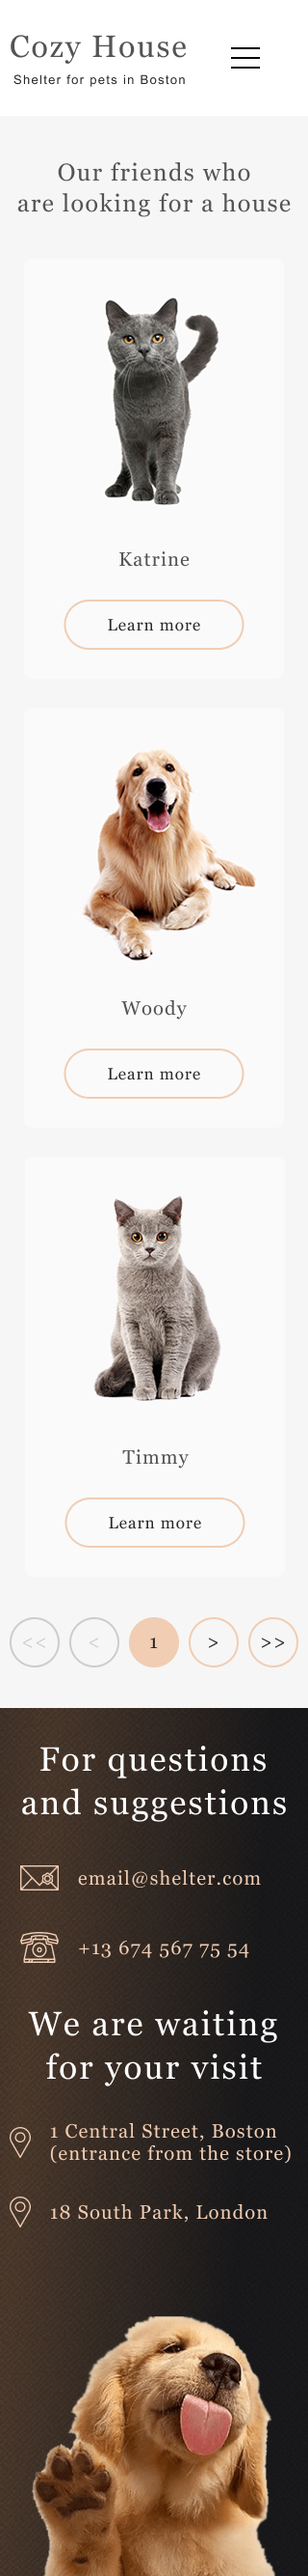
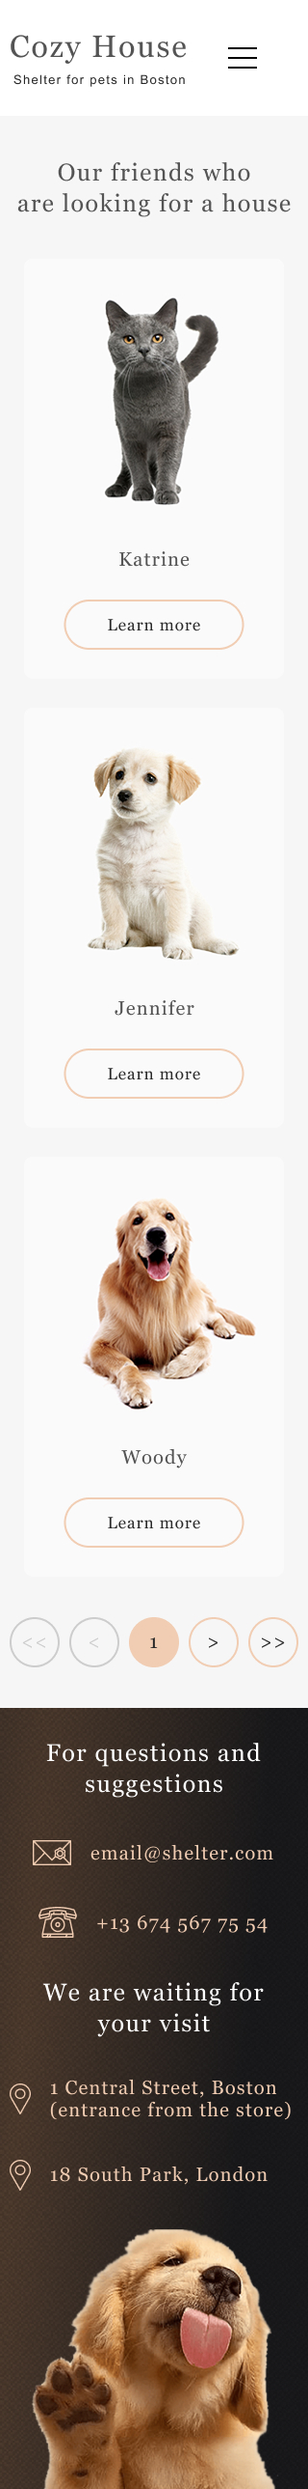
fix: pets page style css

diff --git a/shelter/pages/pets/pets.scss b/shelter/pages/pets/pets.scss
@@ -106,7 +106,7 @@ p {
     margin-top: 10px;
     color: $color-dark-3xl;
     font-size: 13px;
-    letter-spacing: 0.1em;
+    letter-spacing: 0.14em;
     line-height: 110%;
     text-align: center;
     font-weight: 400;
@@ -188,7 +188,6 @@ p {
 .friends__title {
     display: flex;
     flex-direction: column;
-    max-width: 400px;
     text-align: center;
 }
 
@@ -335,6 +334,12 @@ p {
     margin-right: 40px;
 }
 
+.menu-burger {
+    position: relative;
+    cursor: pointer;
+    display: none;
+}
+
 @media screen and (max-width: 1279px) {
     .wrapper {
         max-width: 768px;
@@ -407,4 +412,103 @@ p {
         margin: 0 auto;
     }
 
+}
+
+@media screen and (max-width: 767px) {
+    .wrapper {
+        max-width: 320px;
+    }
+
+    h2, h3 {
+        font-size: 25px;
+    }
+
+    .menu-burger{
+        display: block;
+        margin-right: 52px;
+        margin-top: 19px;
+    }
+
+    .menu {
+        display: none;
+    }
+
+    .logo {
+        margin-left: 10px;
+    }
+
+    .friends__content {
+        margin-top: 43px;
+        padding-bottom: 37px;
+    }
+
+    .slider {
+        margin: 0;
+        margin-top: 42px;
+    }
+
+    .slider__content {
+        flex-direction: column;
+    }
+
+    .slider__buttons {
+        margin-top: 9px;
+    }
+
+    .slider__item:nth-child(4) {
+        display: none;
+    }
+    .slider__item:nth-child(5) {
+        display: none;
+    }
+    .slider__item:nth-child(6) {
+        display: none;
+    }
+
+    .arrow {
+        margin: 5px;
+    }
+
+    .footer__contact {
+        margin-top: 39px;
+    }
+
+    .footer__content {
+        flex-direction: column;
+        padding: 19px 13px 42px;
+    }
+
+    .footer__contacts {
+        margin-right: 0;
+    }
+
+    .footer__title {
+        text-align: center;
+    }
+
+    .footer__location {
+        margin-top: 42px;
+    }
+
+    .footer__icon {
+        margin-right: 16px;
+    }
+
+    .footer__image img {
+        width: 260px;
+    }
+
+    .footer__location .footer__contact {
+    display: flex;
+    justify-content: end;
+    }
+
+    .footer__contacts .footer__contact {
+        display: flex;
+        justify-content: inherit;
+        }
+
+    .footer__contacts .footer__contact {
+        padding: 0 23px;
+    }
 }

diff --git a/shelter/pages/pets/pets.css b/shelter/pages/pets/pets.css
@@ -79,7 +79,7 @@ p {
   margin-top: 10px;
   color: #292929;
   font-size: 13px;
-  letter-spacing: 0.1em;
+  letter-spacing: 0.14em;
   line-height: 110%;
   text-align: center;
   font-weight: 400; }
@@ -147,7 +147,6 @@ p {
 .friends__title {
   display: flex;
   flex-direction: column;
-  max-width: 400px;
   text-align: center; }
 
 .slider__photo {
@@ -272,6 +271,11 @@ p {
   align-items: flex-end;
   margin-right: 40px; }
 
+.menu-burger {
+  position: relative;
+  cursor: pointer;
+  display: none; }
+
 @media screen and (max-width: 1279px) {
   .wrapper {
     max-width: 768px; }
@@ -325,5 +329,81 @@ p {
 
   .footer__image {
     margin: 0 auto; } }
+@media screen and (max-width: 767px) {
+  .wrapper {
+    max-width: 320px; }
+
+  h2, h3 {
+    font-size: 25px; }
+
+  .menu-burger {
+    display: block;
+    margin-right: 52px;
+    margin-top: 19px; }
+
+  .menu {
+    display: none; }
+
+  .logo {
+    margin-left: 10px; }
+
+  .friends__content {
+    margin-top: 43px;
+    padding-bottom: 37px; }
+
+  .slider {
+    margin: 0;
+    margin-top: 42px; }
+
+  .slider__content {
+    flex-direction: column; }
+
+  .slider__buttons {
+    margin-top: 9px; }
+
+  .slider__item:nth-child(4) {
+    display: none; }
+
+  .slider__item:nth-child(5) {
+    display: none; }
+
+  .slider__item:nth-child(6) {
+    display: none; }
+
+  .arrow {
+    margin: 5px; }
+
+  .footer__contact {
+    margin-top: 39px; }
+
+  .footer__content {
+    flex-direction: column;
+    padding: 19px 13px 42px; }
+
+  .footer__contacts {
+    margin-right: 0; }
+
+  .footer__title {
+    text-align: center; }
+
+  .footer__location {
+    margin-top: 42px; }
+
+  .footer__icon {
+    margin-right: 16px; }
+
+  .footer__image img {
+    width: 260px; }
+
+  .footer__location .footer__contact {
+    display: flex;
+    justify-content: end; }
+
+  .footer__contacts .footer__contact {
+    display: flex;
+    justify-content: inherit; }
+
+  .footer__contacts .footer__contact {
+    padding: 0 23px; } }
 
 /*# sourceMappingURL=pets.css.map */

diff --git a/shelter/pages/pets/pets.html b/shelter/pages/pets/pets.html
@@ -19,10 +19,13 @@
                     Shelter for pets in Boston
                 </div>
             </div>
+            <div class="menu-burger">
+                <span><img src="../../assets/icons/Burger-pets.png" alt=""></span>
+            </div>
             <nav class="menu">
                 <ul class="list">
                     <li class="list__item">
-                        <a href="#" class="list__link list__link_disabled">
+                        <a href="../../pages/main/main.html" class="list__link list__link_disabled">
                             About the shelter
                         </a>
                     </li>
